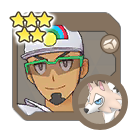
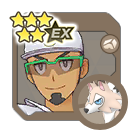
Add v2.28.0

Changed region(s): [[0.2963, 0.0889, 0.5926, 0.3556], [0.2963, 0.0889, 0.3259, 0.1185]]

diff --git a/js/syncpairs.js b/js/syncpairs.js
@@ -3484,7 +3484,7 @@ export const SYNCPAIRS = [
 			"Sync Pairs/0D_SINNOH/0D_SINNOH_0C-05_Cynthia_EX.png"
 		],
 		"tags": [
-			"Limited Sync Pair Scout",
+			//"Limited Sync Pair Scout",
 			"Poké Fair",
 			"Multiple Units",
 			"isWoman",
@@ -3567,7 +3567,7 @@ export const SYNCPAIRS = [
 			"Trainer Lodge",
 			"Multiple Units",
 			"isWoman",
-			"Limited",
+			//"Limited",
 			"Champion"
 		]
 	},
@@ -3587,7 +3587,7 @@ export const SYNCPAIRS = [
 		"syncPairRegion": "4Sinnoh",
 		"images": [
 			"Sync Pairs/0D_SINNOH/0D_SINNOH_0C-05_SSACynthia.png",
-			"Sync Pairs/0D_SINNOH/0D_SINNOH_0C-05_SSACynthia.png_EX.png"
+			"Sync Pairs/0D_SINNOH/0D_SINNOH_0C-05_SSACynthia_EX.png"
 		],
 		"tags": [
 			"Limited Sync Pair Scout",
@@ -3614,7 +3614,8 @@ export const SYNCPAIRS = [
 		"releaseDate": "2020-01-30",
 		"syncPairRegion": "7Alola",
 		"images": [
-			"Sync Pairs/0G_ALOLA/0G_ALOLA_0E-01_Kukui.png"
+			"Sync Pairs/0G_ALOLA/0G_ALOLA_0E-01_Kukui.png",
+			"Sync Pairs/0G_ALOLA/0G_ALOLA_0E-01_Kukui_EX.png"
 		],
 		"tags": [
 			"Gen Pool",
@@ -3766,8 +3767,8 @@ export const SYNCPAIRS = [
 		"releaseDate": "2022-08-10",
 		"syncPairRegion": "3Hoenn",
 		"images": [
-			"Sync Pairs/0C_HOENN/0C_HOENN_0C-05_SSStevenA.png",
-			"Sync Pairs/0C_HOENN/0C_HOENN_0C-05_SSStevenA_EX.png"
+			"Sync Pairs/0C_HOENN/0C_HOENN_0C-05_ssSteven_ANormal.png",
+			"Sync Pairs/0C_HOENN/0C_HOENN_0C-05_ssSteven_ANormal_EX.png"
 		],
 		"tags": [
 			"Limited Sync Pair Scout",
@@ -4398,6 +4399,58 @@ export const SYNCPAIRS = [
 			"isWoman",
 			"Main Character",
 			"Legendary"
+		]
+	},
+	{
+		"dexNumber": "094",
+		"trainerName": "Dawn",
+		"trainerAlt": "New Year's 2023",
+		"pokemonNumber": "0741",
+		"pokemonName": "Oricorio",
+		"pokemonGender": "♀",
+		"pokemonForm": ["Sensu Style"],
+		"pokemonType": "Ghost",
+		"pokemonWeak": "Ice",
+		"syncPairRole": "Tech",
+		"syncPairRarity": "5",
+		"releaseDate": "2023-01-01",
+		"syncPairRegion": "4Sinnoh",
+		"images": [
+			"Sync Pairs/0Y_SEASONALS/0Z_0D_NY_2023_Dawn.png",
+			"Sync Pairs/0Y_SEASONALS/0Z_0D_NY_2023_Dawn_EX.png"
+		],
+		"tags": [
+			"isWoman",
+			"Limited Sync Pair Scout",
+			"Multiple Units",
+			"Seasonal",
+			"Main Character",
+			"New Year"
+		]
+	},
+	{
+		"dexNumber": "094",
+		"trainerName": "Dawn",
+		"trainerAlt": "Lodge",
+		"pokemonNumber": "0413",
+		"pokemonName": "Wormadam",
+		"pokemonGender": "♀",
+		"pokemonForm": ["Plant Cloak"],
+		"pokemonType": "Bug",
+		"pokemonWeak": "Flying",
+		"syncPairRole": "Support",
+		"syncPairRarity": "4",
+		"releaseDate": "2023-01-01",
+		"syncPairRegion": "4Sinnoh",
+		"images": [
+			"Sync Pairs/0D_SINNOH/0D_SINNOH_0A-02_TL_Dawn.png",
+			"Sync Pairs/5Star/0D_SINNOH_0A-02_TL_Dawn_5Star.png"
+		],
+		"tags": [
+			"isWoman",
+			"Multiple Units",
+			"Trainer Lodge",
+			"Main Character"
 		]
 	},
 	{
@@ -5114,7 +5167,35 @@ export const SYNCPAIRS = [
 		],
 		"tags": [
 			"Gen Pool",
-			"isWoman"
+			"isWoman",
+			"Multiple Units"
+		]
+	},
+	{
+		"dexNumber": "107",
+		"trainerName": "Lisia",
+		"trainerAlt": "New Year's 2023",
+		"pokemonNumber": "0078",
+		"pokemonName": "Rapidash",
+		"pokemonGender": "♂",
+		"pokemonForm": ["Galarian Form"],
+		"pokemonType": "Fairy",
+		"pokemonWeak": "Ghost",
+		"syncPairRole": "Physical Strike",
+		"syncPairRarity": "5",
+		"releaseDate": "2023-01-01",
+		"syncPairRegion": "3Hoenn",
+		"images": [
+			"Sync Pairs/0Y_SEASONALS/0Z_0D_NY_2023_Lisia.png",
+			"Sync Pairs/0Y_SEASONALS/0Z_0D_NY_2023_Lisia_EX.png"
+		],
+		"tags": [
+			"isWoman",
+			"Limited Sync Pair Scout",
+			"Multiple Units",
+			"Seasonal",
+			"Shiny",
+			"New Year"
 		]
 	},
 	{
@@ -5290,7 +5371,7 @@ export const SYNCPAIRS = [
 			"Sync Pairs/0E_UNOVA/0E_UNOVA_0E-03_N_EX.png"
 		],
 		"tags": [
-			"Limited Sync Pair Scout",
+			//"Limited Sync Pair Scout",
 			"Poké Fair",
 			"Multiple Units",
 			"isMan",
@@ -5377,7 +5458,7 @@ export const SYNCPAIRS = [
 			"Trainer Lodge",
 			"Multiple Units",
 			"isMan",
-			"Limited",
+			//"Limited",
 			"Rival",
 			"Vilain"
 		]
@@ -5608,7 +5689,8 @@ export const SYNCPAIRS = [
 		"releaseDate": "2021-02-11",
 		"syncPairRegion": "6Kalos",
 		"images": [
-			"Sync Pairs/0F_KALOS/0F_KALOS_0F-01_ProfSycamore.png"
+			"Sync Pairs/0F_KALOS/0F_KALOS_0F-01_ProfSycamore.png",
+			"Sync Pairs/0F_KALOS/0F_KALOS_0F-01_ProfSycamore_EX.png"
 		],
 		"tags": [
 			"Legendary Adventures",
@@ -5763,7 +5845,7 @@ export const SYNCPAIRS = [
 			"Sync Pairs/0H_GALAR/0H_GALAR_0A-04_Marnie_EX.png"
 		],
 		"tags": [
-			"Limited Sync Pair Scout",
+			//"Limited Sync Pair Scout",
 			"Poké Fair",
 			"Multiple Units",
 			"isWoman",
@@ -5845,7 +5927,7 @@ export const SYNCPAIRS = [
 			"Trainer Lodge",
 			"Multiple Units",
 			"isWoman",
-			"Limited",
+			//"Limited",
 			"Rival"
 		]
 	},
@@ -5900,6 +5982,38 @@ export const SYNCPAIRS = [
 			"isWoman",
 			"Champion",
 			"Mythical"
+		]
+	},
+	{
+		"dexNumber": "120",
+		"trainerName": "Diantha",
+		"trainerAlt": "Sygna Suit",
+		"pokemonNumber": "0719",
+		"pokemonName": "Diancie",
+		"pokemonGender": "",
+		"pokemonForm": ["Mega Evolution"],
+		"pokemonType": "Rock",
+		"pokemonWeak": "Steel",
+		"syncPairRole": "Tech",
+		"syncPairRarity": "5",
+		"releaseDate": "2023-01-12",
+		"syncPairRegion": "6Kalos",
+		"images": [
+			"Sync Pairs/0F_KALOS/0F_KALOS_0C-05_ssDiantha.png",
+			"Sync Pairs/0F_KALOS/0F_KALOS_0C-05_ssDiantha_EX.png"
+		],
+		"tags": [
+			"Buddy Move",
+			"isWoman",
+			"Limited Sync Pair Scout",
+			"Mega Evolution",
+			"Multiple Units",
+			"Poké Fair",
+			"Wish Zone",
+			"Champion",
+			"Mythical",
+			"Shiny",
+			"Sygna Suit"
 		]
 	},
 	{
@@ -5969,7 +6083,7 @@ export const SYNCPAIRS = [
 			"Sync Pairs/0H_GALAR/0H_GALAR_0B-08_Raihan_EX.png"
 		],
 		"tags": [
-			"Limited Sync Pair Scout",
+			//"Limited Sync Pair Scout",
 			"Poké Fair",
 			"Multiple Units",
 			"isMan",
@@ -6025,7 +6139,7 @@ export const SYNCPAIRS = [
 		],
 		"tags": [
 			"isMan",
-			"Limited Sync Pair Scout",
+			//"Limited Sync Pair Scout",
 			"Multiple Units",
 			"Trainer Lodge",
 			"Weather",
@@ -7126,6 +7240,55 @@ export const SYNCPAIRS = [
 			"Gen Pool",
 			"Vilain"
 		]
+	},
+	{
+		"dexNumber": "161",
+		"trainerName": "Kali",
+		"trainerAlt": "Furisode Girl",
+		"pokemonNumber": "0184",
+		"pokemonName": "Azumarill",
+		"pokemonGender": "♀",
+		"pokemonForm": [],
+		"pokemonType": "Fairy",
+		"pokemonWeak": "Electric",
+		"syncPairRole": "Support",
+		"syncPairRarity": "3",
+		"releaseDate": "2023-01-01",
+		"syncPairRegion": "6Kalos",
+		"images": [
+			"Sync Pairs/0F_KALOS/0F_KALOS_0X-02_Kali.png",
+			"Sync Pairs/4Star/0F_KALOS_0X-02_Kali_4Star.png",
+			"Sync Pairs/5Star/0F_KALOS_0X-02_Kali_5Star.png"
+		],
+		"tags": [
+			"Event",
+			"isWoman",
+			"Limited Sync Pair Scout"
+		]
+	},
+	{
+		"dexNumber": "162",
+		"trainerName": "Shauna",
+		"trainerAlt": "",
+		"pokemonNumber": "0652",
+		"pokemonName": "Chesnaught",
+		"pokemonGender": "♀",
+		"pokemonForm": [],
+		"pokemonType": "Grass",
+		"pokemonWeak": "Psychic",
+		"syncPairRole": "Support",
+		"syncPairRarity": "5",
+		"releaseDate": "2023-01-16",
+		"syncPairRegion": "6Kalos",
+		"images": [
+			"Sync Pairs/0F_KALOS/0F_KALOS_0A-03_Shauna.png",
+			"Sync Pairs/0F_KALOS/0F_KALOS_0A-03_Shauna_EX.png"
+		],
+		"tags": [
+			"isWoman",
+			"Gen Pool",
+			"Rival"
+		]
 	}
 	/*,
 	{
@@ -7188,4 +7351,4 @@ export const SYNCPAIRS = [
 ]
 
 
-export const VERSION = "v2.27.0";
+export const VERSION = "v2.28.0";

diff --git a/js/news.js b/js/news.js
@@ -1,5 +1,9 @@
 export const NEWS = [
 	{
+		"date": "2022-12-26",
+		"info" : "Add v2.28.0"
+	},
+	{
 		"date": "2022-11-28",
 		"info" : "Add v2.27.0"
 	},
